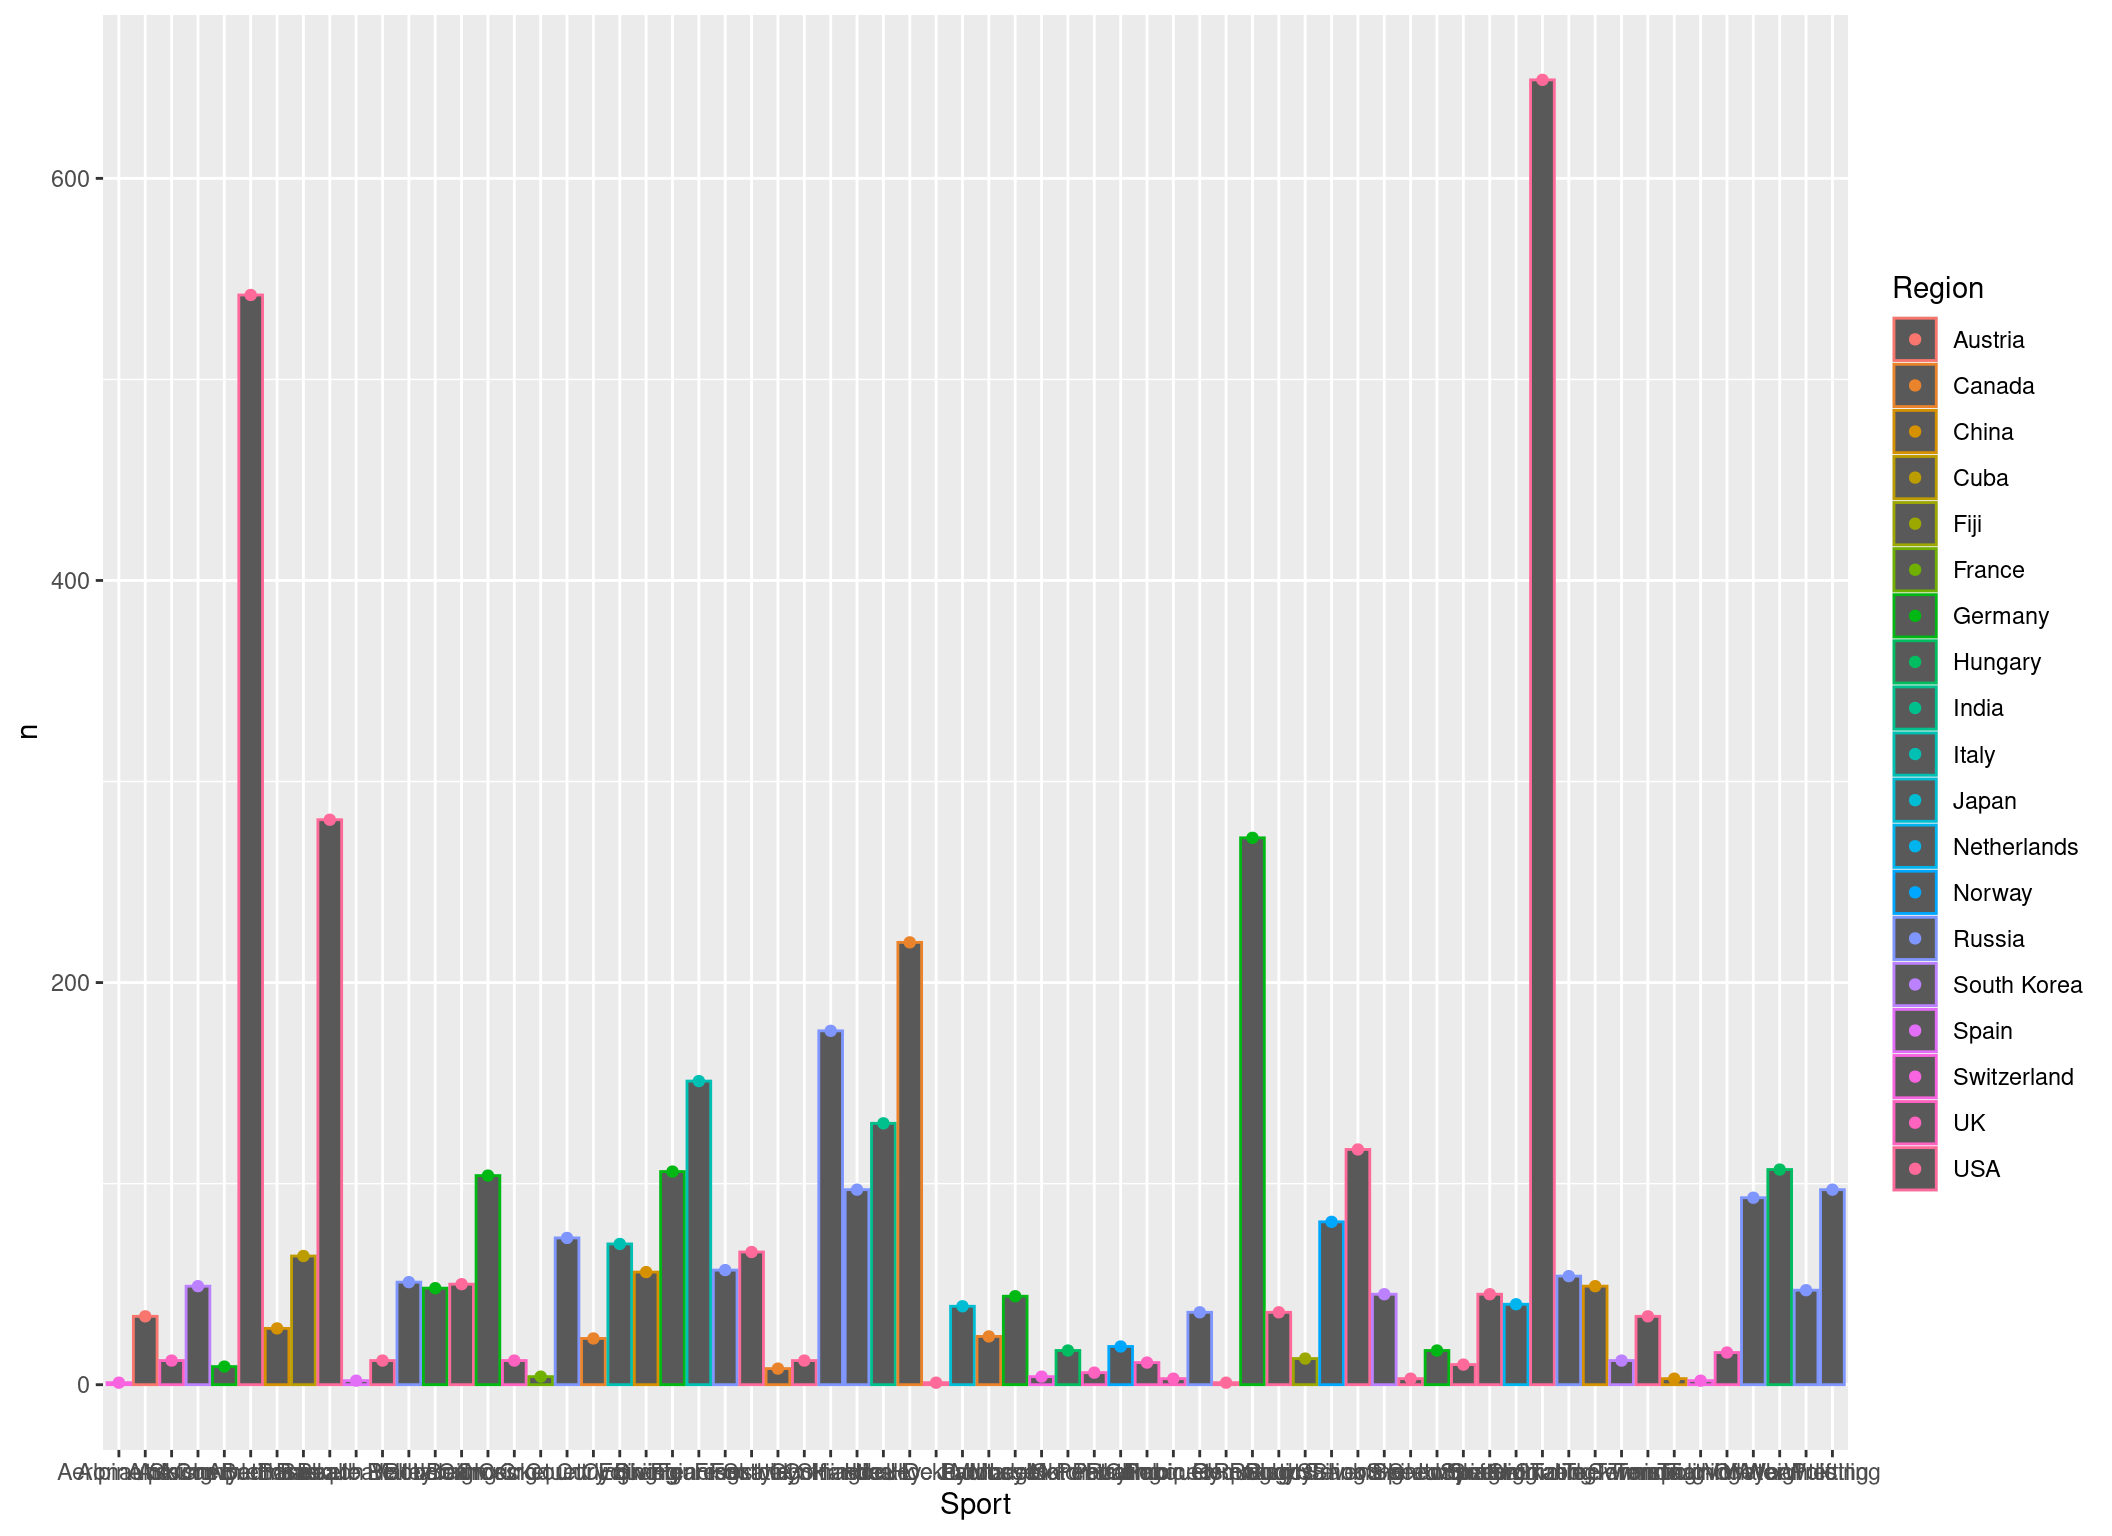
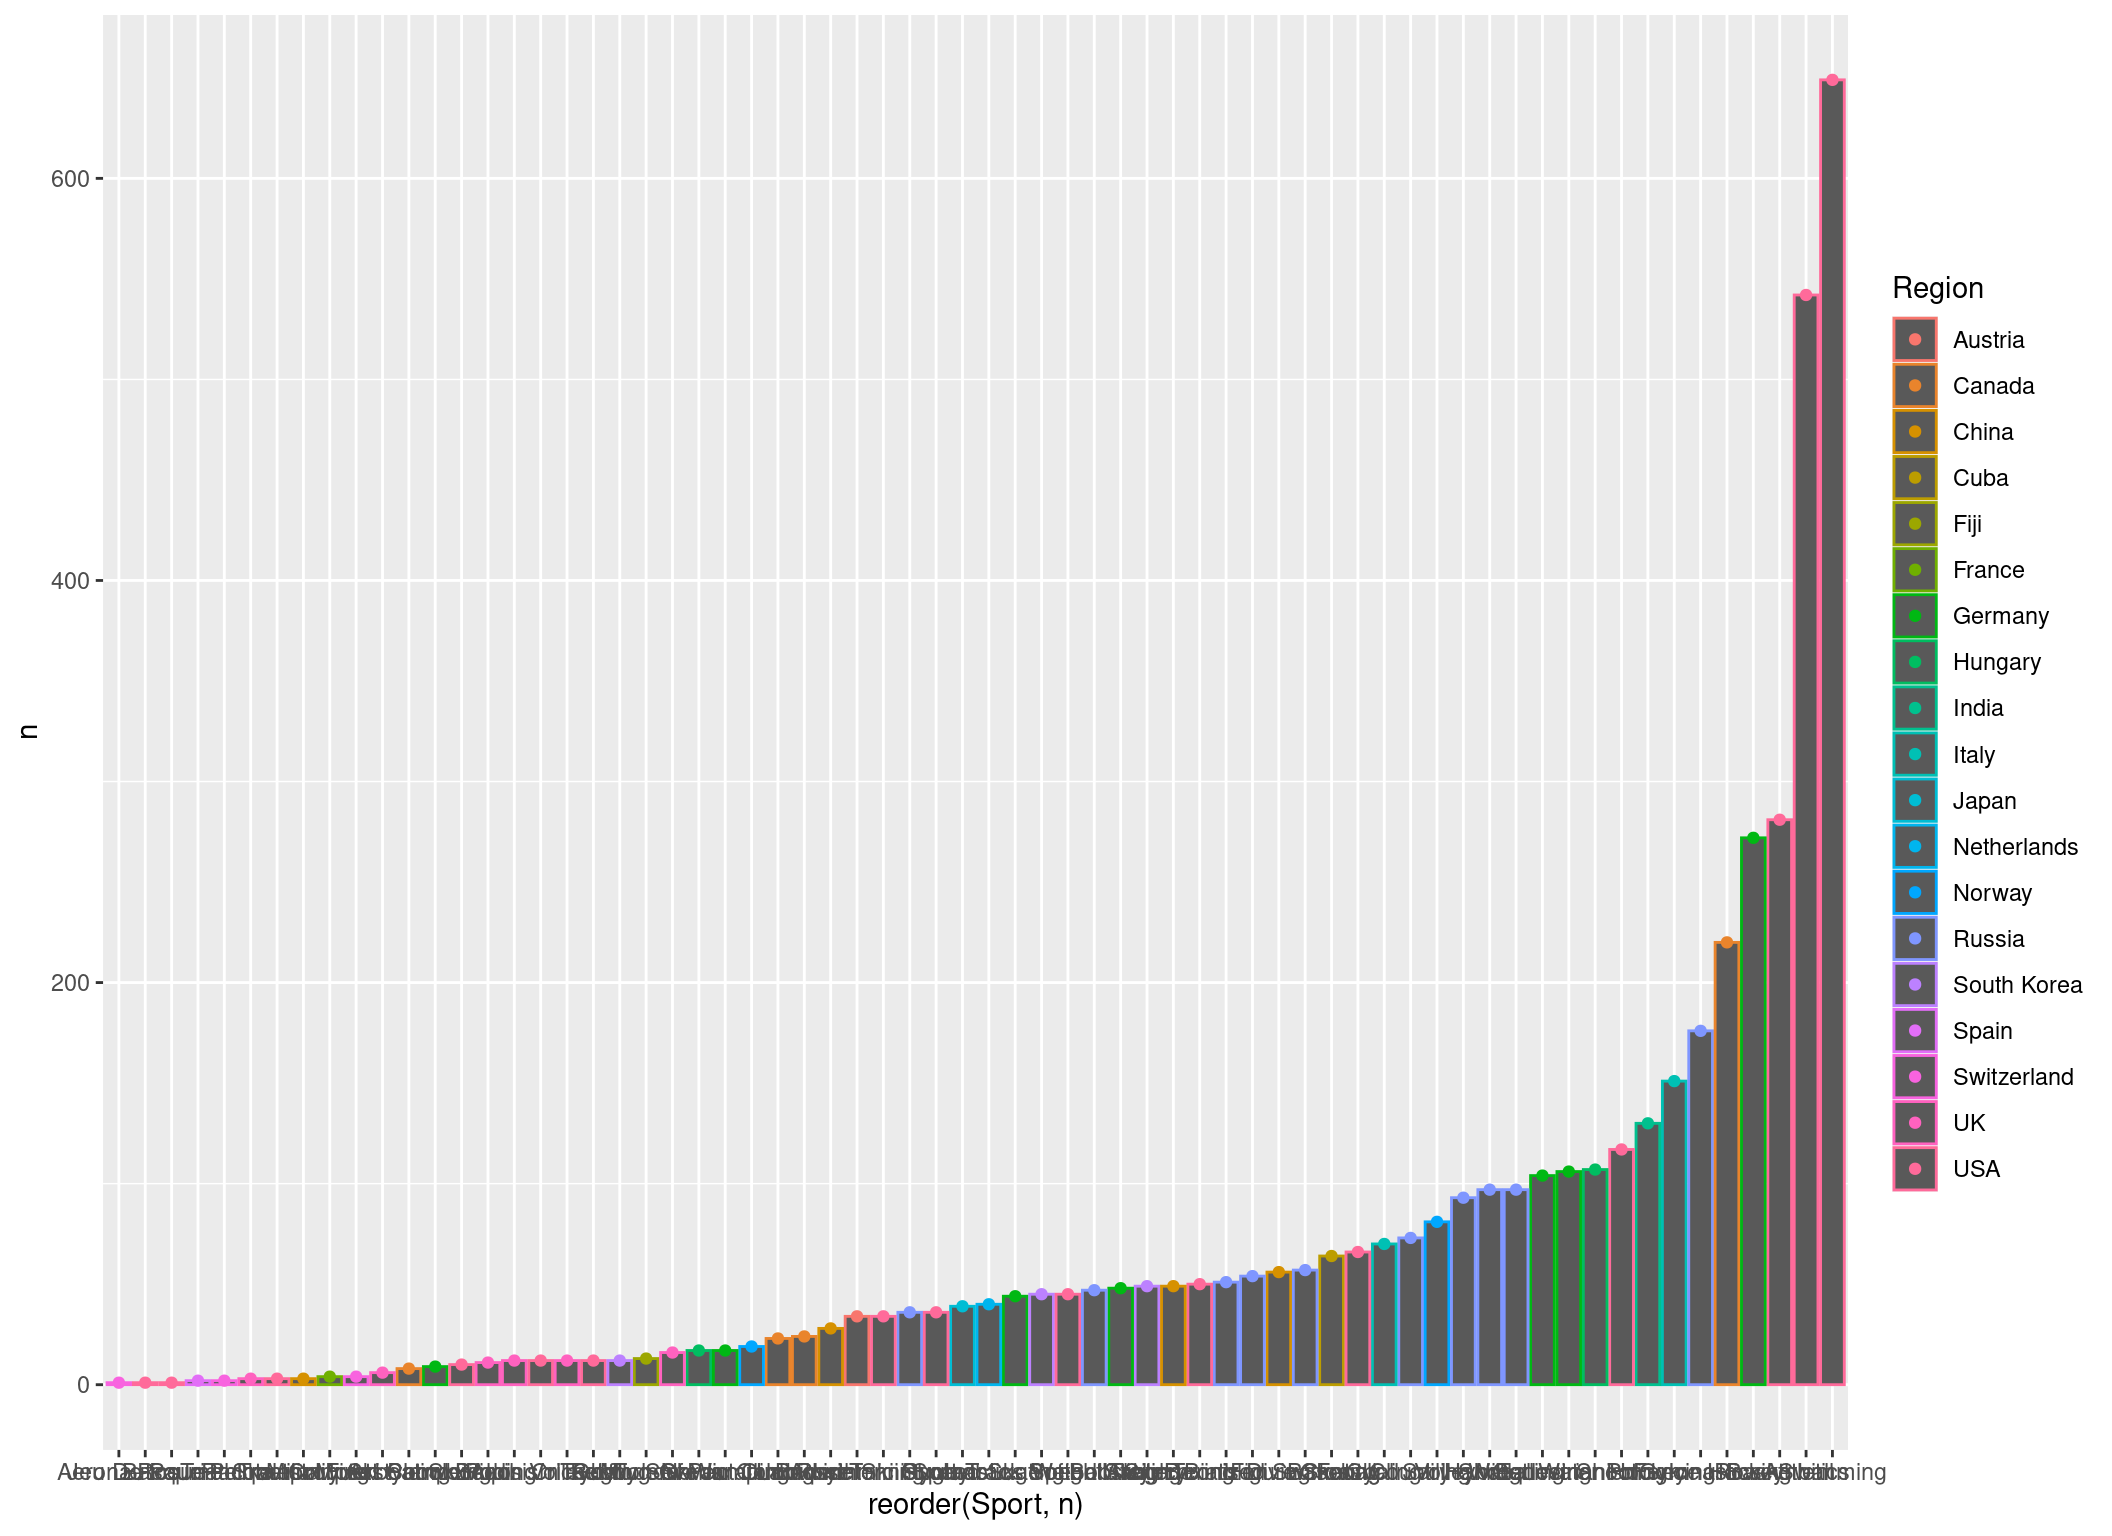
Built site for gh-pages

Changed region(s): [[0.0625, 0.0312, 0.875, 0.9062], [0.0312, 0.9375, 0.9062, 1.0]]

diff --git a/qmd/loops/loops.html b/qmd/loops/loops.html
@@ -856,7 +856,7 @@ Tip
 </div>
 </div>
 <div class="callout-body-container callout-body">
-<p>In general, try not to repeat yourself when writing code. As a general rule of thumb, use loops and/or <a href="../../qmd/functions/functions.html">functions</a> if you need to copy/paste something more than two times.</p>
+<p>In general, try not to repeat yourself when writing code. As a general rule of thumb, use loops and/or <a href="../../qmd/functions/functions.html">functions</a> if you need to copy/paste something more than two times. In the above example, we could also have put the <code>paste()</code> call into a function of it own, to trim down the code even more and make it more readable.</p>
 </div>
 </div>
 </section>
@@ -866,7 +866,7 @@ Tip
 <pre><code>for(counter in values){
   repeat something with changing counter
 }</code></pre>
-<p>What does that mean? Let’s look at a simple example first. We want to multiply the values from <code>10</code> to <code>20</code> with <code>100</code> and then print them into our console:</p>
+<p>What does this mean? Let’s look at a simple example first. We want to multiply the values from <code>10</code> to <code>20</code> with <code>100</code> and then print them into our console:</p>
 <div class="cell">
 <div class="sourceCode cell-code" id="cb14"><pre class="sourceCode r code-with-copy"><code class="sourceCode r"><span id="cb14-1"><a href="#cb14-1" aria-hidden="true" tabindex="-1"></a><span class="cf">for</span>(i <span class="cf">in</span> <span class="dv">10</span><span class="sc">:</span><span class="dv">20</span>){</span>
 <span id="cb14-2"><a href="#cb14-2" aria-hidden="true" tabindex="-1"></a>  new_i <span class="ot">&lt;-</span> i <span class="sc">*</span> <span class="dv">100</span></span>

diff --git a/qmd/functions/functions.html b/qmd/functions/functions.html
@@ -824,11 +824,11 @@ Previous code
 }</code></pre>
 <ol type="1">
 <li>We always have to give the function a concise name (often not that easy).</li>
-<li>Then we specify some arguments (which should also have concise names). In our introductory example that was just the athlete name.</li>
+<li>Then we specify some arguments (which should also have concise names). In our introductory example that was just the athlete name. We can also provide a default option for the arguments, which the function will fall back on if the user doesn’t specify anything.</li>
 <li>Inside the <code>{ }</code> we define the operations, which can use the variable function arguments so the user can specify some aspects of the function behavior.</li>
 <li>In the end, it is good practice to return the result by using <code>return()</code>, so it is always clear what the function is giving back to the user.</li>
 </ol>
-<p>One minimal example with three arguments would be to sum three numbers. We can also provide a default option for the arguments, which the function will fall back on if the user doesn’t specify anything:</p>
+<p>One minimal example with three arguments would be to sum three numbers:</p>
 <div class="cell">
 <div class="sourceCode cell-code" id="cb17"><pre class="sourceCode r code-with-copy"><code class="sourceCode r"><span id="cb17-1"><a href="#cb17-1" aria-hidden="true" tabindex="-1"></a>sum_num <span class="ot">&lt;-</span> <span class="cf">function</span>(x, y, <span class="at">z =</span> <span class="dv">0</span>){</span>
 <span id="cb17-2"><a href="#cb17-2" aria-hidden="true" tabindex="-1"></a>  result <span class="ot">&lt;-</span> x <span class="sc">+</span> y <span class="sc">+</span> z</span>

diff --git a/qmd/loops/loops_exercise.html b/qmd/loops/loops_exercise.html
@@ -810,7 +810,7 @@ Hint
 </div>
 <div id="callout-4" class="callout-4-contents callout-collapse collapse">
 <div class="callout-body-container callout-body">
-<p>Build a <code>for loop</code> that goes over all unique questions (use <code>unique()</code> in your subsetted data frames. Inside this <code>for-loop</code> you can subset again, this time only the rows containing the question that the loop is at at the moment, and calculate its mean rating from here. Then use <code>paste()</code> to build and print the statement.</p>
+<p>Build a <code>for loop</code> that goes over all unique questions (use <code>unique()</code>) in your subsetted data frame. Inside this <code>for-loop</code> you can subset again, this time only the rows containing the question that the loop is at at the moment, and calculate its mean rating from here. Then use <code>paste()</code> to build and print the statement.</p>
 </div>
 </div>
 </div>
@@ -885,7 +885,7 @@ Hints
 <ol type="1">
 <li>Build an empty data frame where you will save your results.</li>
 <li>Now you can’t easily loop over the question column itself, because you need the position of each element to save it in the respective row of your new data frame: <code>for(i in 1:length(unique(characters_friends$question))){</code>.</li>
-<li>Now you can save the result of your calculateion in row <code>i</code> of your new data frame.</li>
+<li>Now you can save the result of your calculation in row <code>i</code> and column <code>mean</code> of your new data frame.</li>
 </ol>
 </div>
 </div>

diff --git a/qmd/plotting/plotting.html b/qmd/plotting/plotting.html
@@ -797,7 +797,7 @@ Previous code
 <div class="sourceCode cell-code" id="cb9"><pre class="sourceCode r code-with-copy"><code class="sourceCode r"><span id="cb9-1"><a href="#cb9-1" aria-hidden="true" tabindex="-1"></a><span class="fu">ggplot</span>(</span>
 <span id="cb9-2"><a href="#cb9-2" aria-hidden="true" tabindex="-1"></a>  <span class="at">data =</span> best_by_sport,</span>
 <span id="cb9-3"><a href="#cb9-3" aria-hidden="true" tabindex="-1"></a>  <span class="fu">aes</span>(</span>
-<span id="cb9-4"><a href="#cb9-4" aria-hidden="true" tabindex="-1"></a>    <span class="at">x =</span> Sport,</span>
+<span id="cb9-4"><a href="#cb9-4" aria-hidden="true" tabindex="-1"></a>    <span class="at">x =</span> <span class="fu">reorder</span>(Sport, n),</span>
 <span id="cb9-5"><a href="#cb9-5" aria-hidden="true" tabindex="-1"></a>    <span class="at">y =</span> n,</span>
 <span id="cb9-6"><a href="#cb9-6" aria-hidden="true" tabindex="-1"></a>    <span class="at">colour =</span> Region</span>
 <span id="cb9-7"><a href="#cb9-7" aria-hidden="true" tabindex="-1"></a>  )</span>
